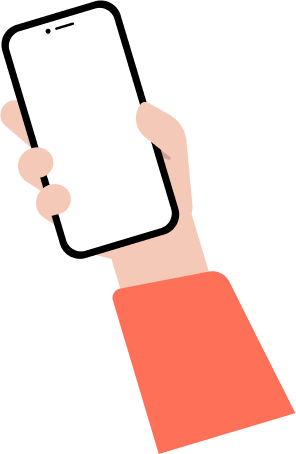
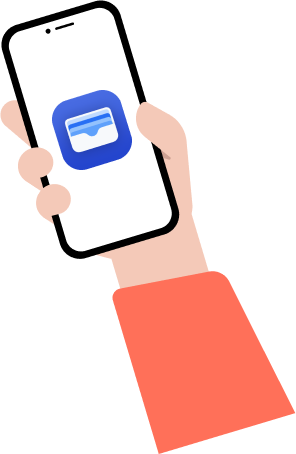
feat: new images

Changed region(s): [[0.152, 0.185, 0.4561, 0.4009]]

diff --git a/apps/storybook/components/funke/IdCardScanningScreen.stories.tsx b/apps/storybook/components/funke/IdCardScanningScreen.stories.tsx
@@ -3,7 +3,7 @@ import type { Meta, StoryObj } from '@storybook/react'
 import React from 'react'
 
 // TODO: src import?
-import { NfcCardScanningPlacementImage } from '@package/ui/src/images/NfcScanningCardPlacementImage'
+import { IdCardImage } from '@package/ui/src/images/IdCardImage'
 
 import { OnboardingScreensHeader } from '@package/ui/src/components/OnboardingScreensHeader'
 import { YStack } from 'tamagui'
@@ -15,7 +15,7 @@ const IdCardScanningScreen = ({ isScanning }: { isScanning: boolean }) => {
     <Page flex-1 gap="$6">
       <OnboardingScreensHeader flex={1} title={title} progress={66} />
       <Stack flex={2}>
-        <NfcCardScanningPlacementImage height="100%" />
+        <IdCardImage height="100%" />
       </Stack>
       <YStack flex={1} justifyContent="flex-end">
         {/* TODO: grey-700 vs secondary */}

diff --git a/packages/ui/src/content/IllustrationContainer.tsx b/packages/ui/src/content/IllustrationContainer.tsx
@@ -29,7 +29,7 @@ export function IllustrationContainer({ children, pulse }: { children: React.Rea
 export const CircleContainer = ({ children }: { children: React.ReactNode }) => {
   return (
     <Stack h={156} w={156} bg="#4365DE33" br={999} jc="center" ai="center">
-      <Stack h={124} w={124} bg="#4365DE80" br={999} jc="center" ai="center">
+      <Stack h={124} w={124} bg="#4365DE99" br={999} jc="center" ai="center">
         <LinearGradient
           colors={['#ffffff0D', '#FFFFFFCC', '#ffffff0D']}
           style={{

diff --git a/packages/ui/src/images/index.ts b/packages/ui/src/images/index.ts
@@ -1,4 +1,3 @@
 export * from './ImageContainer'
-export * from './NfcScanningCardPlacementImage'
 export * from './NfcImages'
 export * from './IdCardImage'
